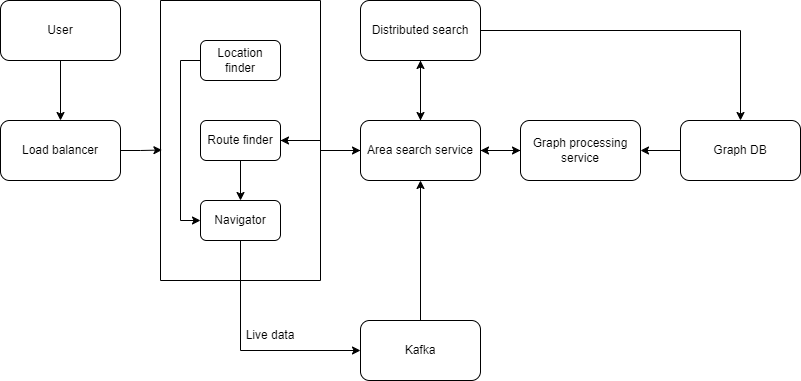
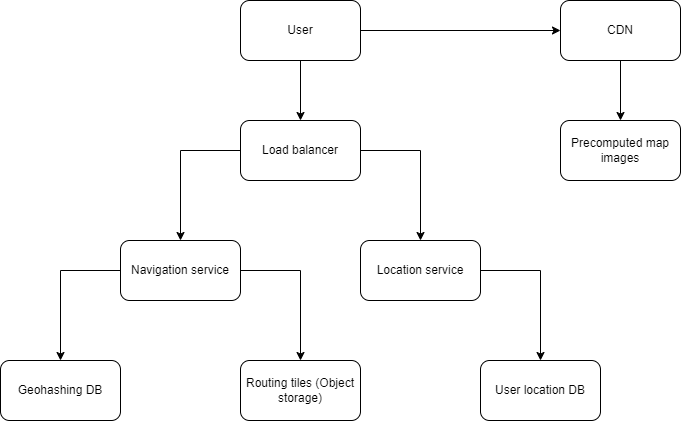
update

diff --git a/software-engineering/2-google-maps.html b/software-engineering/2-google-maps.html
@@ -146,44 +146,32 @@
 
     <img class="img-fluid" class="card-img-top" src="/img/system-design/google-map1.png" alt="Card image cap">
 
-    <h3 class="card-title">Location finder</h3>
+    <h3 class="card-title">Location service</h3>
     <ul>
-      <li>Finds current location of user and show it on map</li>
+      <li>Client sends its location every second</li>
+      <li>Location updates can be buffered on the client and send to the server as a batch every 10-15 seconds</li>
     </ul>
 
-    <h3 class="card-title">Route finder</h3>
+    <h3 class="card-title">Navigation service</h3>
     <ul>
-      <li>Finds path between two points</li>
+      <li>Find route between two points</li>
+      <li>Runs shortest path algorithm</li>
       <li>Shows the path on the map for the user</li>
-    </ul>
-
-    <h3 class="card-title">Navigator</h3>
-    <ul>
-      <li>Tracks user journey</li>
       <li>Sends updated directions when user deviates from the path</li>
     </ul>
 
-    <h3 class="card-title">Distributed search</h3>
+    <h3 class="card-title">Map rendering</h3>
     <ul>
-      <li>Finds lattitude and longitude from the place name</li>
+      <li>User fetches new map tile from the server when</li>
+      <ul>
+        <li>User is zooming on the map</li>
+        <li>During navigation when user moves out from current tile and moves to nearby tile</li>
+      </ul>
+      <li>Map tiles are pre-computed at various zoom level</li>
+      <li>Each map tile is represented by its geohash</li>
     </ul>
 
-    <h3 class="card-title">Area search service</h3>
-    <ul>
-      <li>Receives lattitude and longitude of source and destination from distributed search</li>
-      <li>Finds area spanning these two points</li>
-    </ul>
-
-    <h3 class="card-title">Graph processing service</h3>
-    <ul>
-      <li>Runs shortest path algorithm</li>
-    </ul>
-
-    <h3 class="card-title">Graph DB</h3>
-    <ul>
-      <li>Holds road data</li>
-    </ul>
-
+    <!--
     <h3 class="card-title">Kafka</h3>
     <ul>
       <li>Listens to events and triggers services accordingly</li>
@@ -208,7 +196,7 @@
       <li>Route finder displays the optimal path to user</li>
       <li>Nagivator updates user location on the map as user is moving. It also provides directions to user</li>
       <li>When user deviates from the path, Kafka alerts area search service to recalculate the optimal path</li>
-    </ul>
+    </ul> -->
   </div>
   <div class="card-footer text-muted">
     Reference: System Design Interview Volume 2, Alex Xu & Sahn Lam
